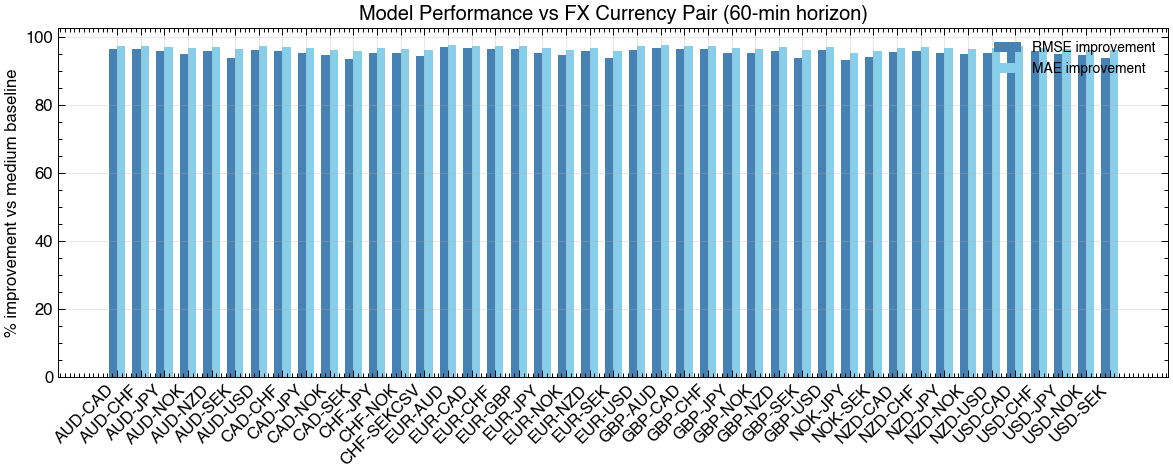
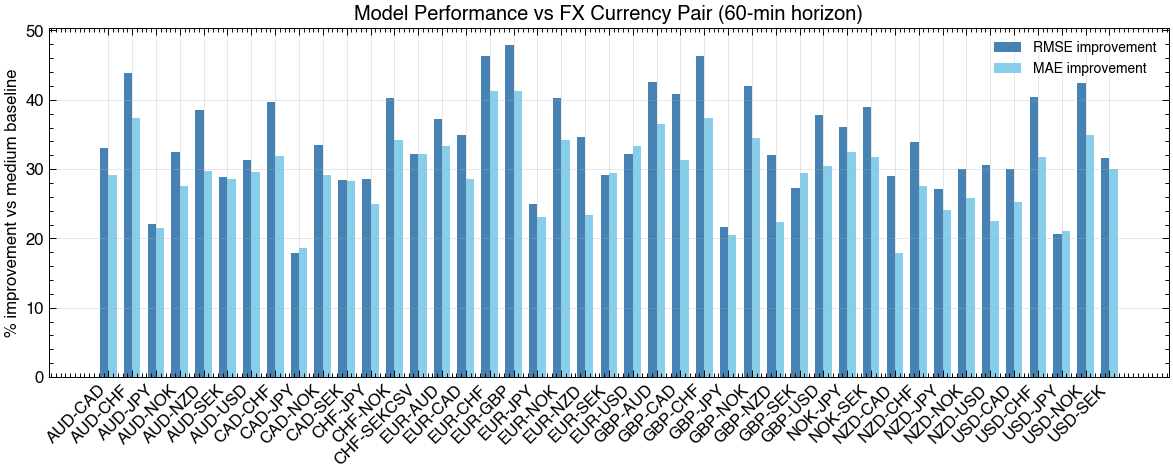
Normalise gui vols

diff --git a/gui/apply_multi_pair_model.py b/gui/apply_multi_pair_model.py
@@ -339,7 +339,7 @@ class VolatilityApp(QWidget):
         self.ax.fill_between(t_display, lower_conf, upper_conf, color='firebrick', alpha=0.1, label="Global RMSE", zorder=2)
 
         self.ax.set_xlabel("Time")
-        self.ax.set_ylabel("Log Volatility Change vs Medium Baseline (%)")
+        self.ax.set_ylabel("Volatility Change vs Medium Baseline (%)")
         self.ax.legend(loc='upper left',frameon=True)
         self.ax.set_title(f"{self.pair_name}")
         self.fig.tight_layout()
@@ -354,9 +354,13 @@ class VolatilityApp(QWidget):
         rmse_uncertainty = rmse_model_global
         mae_uncertainty = mae_model_global
 
+        # self.forecast_label.setText(
+        #     f"Forecast — Model: {model_forecast:.4f} ± RMSE {rmse_uncertainty:.4f} / MAE {mae_uncertainty:.4f}, "
+        #     f"Baseline: {baseline_forecast:.4f}, Improvement: {forecast_improve:.2f}%")
         self.forecast_label.setText(
-            f"Forecast — Model: {model_forecast:.4f} ± RMSE {rmse_uncertainty:.4f} / MAE {mae_uncertainty:.4f}, "
-            f"Baseline: {baseline_forecast:.4f}, Improvement: {forecast_improve:.2f}%")
+            f"Forecasted Volatility Change vs Normal: {self.pred_horizon_pct[-1]:+.2f}% "
+            rf"($\pm$ RMSE {rmse_uncertainty_pct:.2f} / MAE {mae_uncertainty_pct:.2f}%)"
+        )
 
         self.canvas.draw()
 
